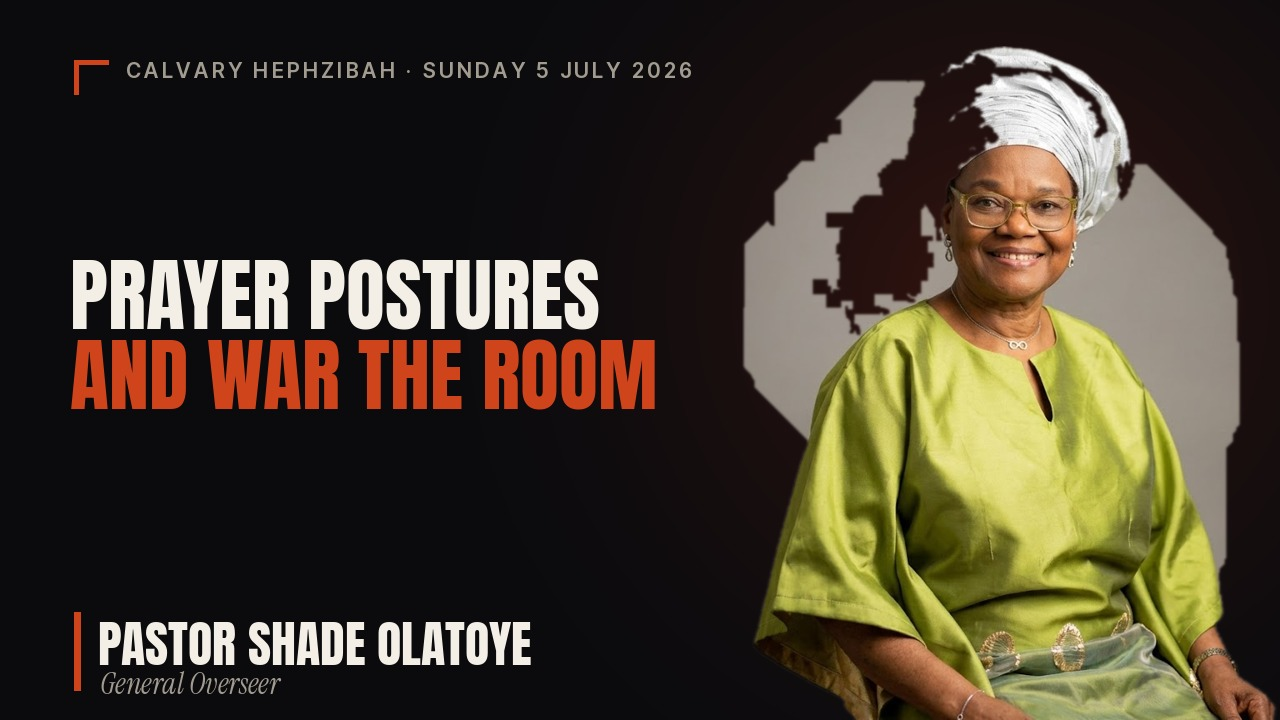
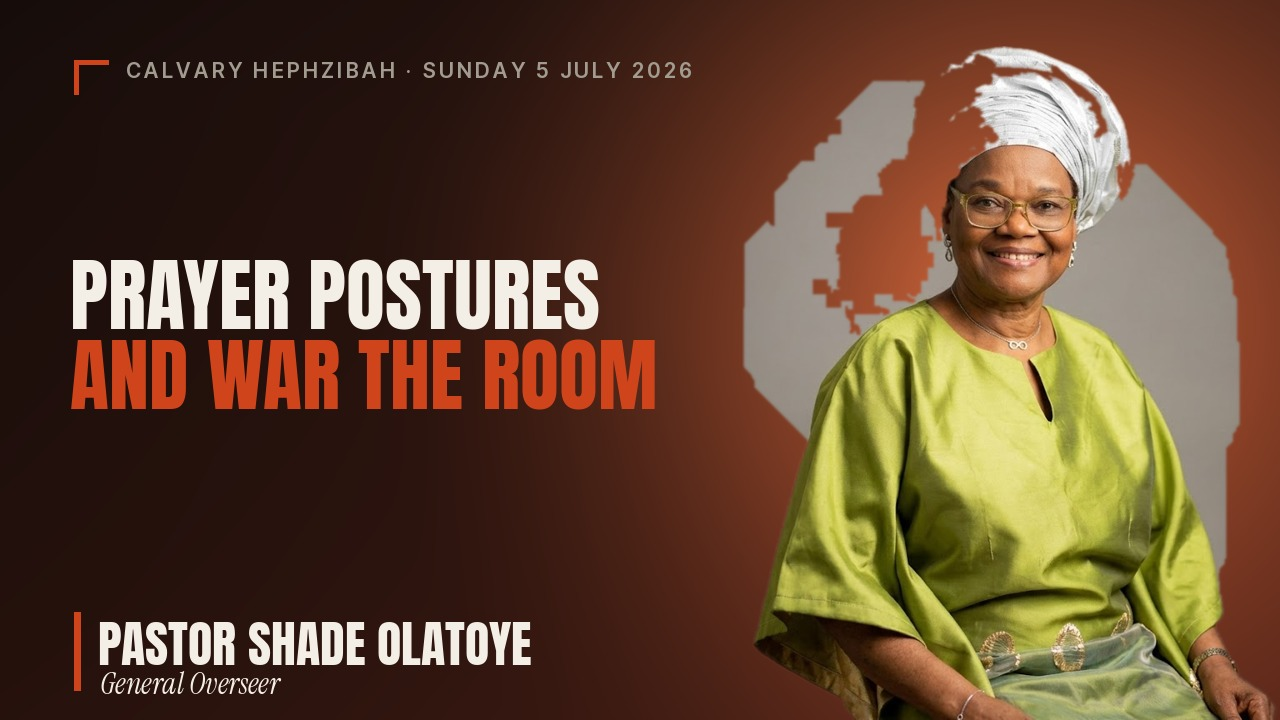
05 Jul 2026: Warm gradient background on sermon thumbnail (contrast fix)

diff --git a/media-briefing-05-jul-2026.html b/media-briefing-05-jul-2026.html
@@ -6,11 +6,11 @@
     <title>Calvary Service Run Sheet – 5th July 2026</title>
     <meta property="og:title" content="Calvary Service Run Sheet – 5th July 2026">
     <meta property="og:description" content="Sunday 5th July 2026 | Prayer Postures and War the Room | Pastor Shade Olatoye | Calvary Hephzibah">
-    <meta property="og:image" content="https://calvaryhfgc.github.io/calvaryhephzibah/sermon-thumbnail-05-jul-2026.jpg?v=2">
+    <meta property="og:image" content="https://calvaryhfgc.github.io/calvaryhephzibah/sermon-thumbnail-05-jul-2026.jpg?v=3">
     <meta property="og:image:width" content="1280">
     <meta property="og:image:height" content="720">
     <meta name="twitter:card" content="summary_large_image">
-    <meta name="twitter:image" content="https://calvaryhfgc.github.io/calvaryhephzibah/sermon-thumbnail-05-jul-2026.jpg?v=2">
+    <meta name="twitter:image" content="https://calvaryhfgc.github.io/calvaryhephzibah/sermon-thumbnail-05-jul-2026.jpg?v=3">
     <link rel="preconnect" href="https://fonts.googleapis.com">
     <link rel="preconnect" href="https://fonts.gstatic.com" crossorigin>
     <link href="https://fonts.googleapis.com/css2?family=Cormorant+Garamond:wght@600;700&family=DM+Sans:wght@400;500;600;700&display=swap" rel="stylesheet">
@@ -244,7 +244,7 @@
             <div class="serm-preacher">Pastor Shade Olatoye <span style="opacity:0.5;font-weight:500;">· General Overseer</span></div>
             <h3 class="serm-title">Prayer Postures and War the Room</h3>
             <div style="font-size:13px;color:rgba(255,255,255,0.6);margin-bottom:14px;">Scripture TBC</div>
-            <img src="https://calvaryhfgc.github.io/calvaryhephzibah/sermon-thumbnail-05-jul-2026.jpg?v=2" alt="Pastor Shade Olatoye — Prayer Postures and War the Room" class="serm-thumb">
+            <img src="https://calvaryhfgc.github.io/calvaryhephzibah/sermon-thumbnail-05-jul-2026.jpg?v=3" alt="Pastor Shade Olatoye — Prayer Postures and War the Room" class="serm-thumb">
             <div class="serm-note"><span>💡</span><span>Display sermon thumbnail for 30 seconds as Pastor Shade comes up to preach.</span></div>
         </div>
     </div>
